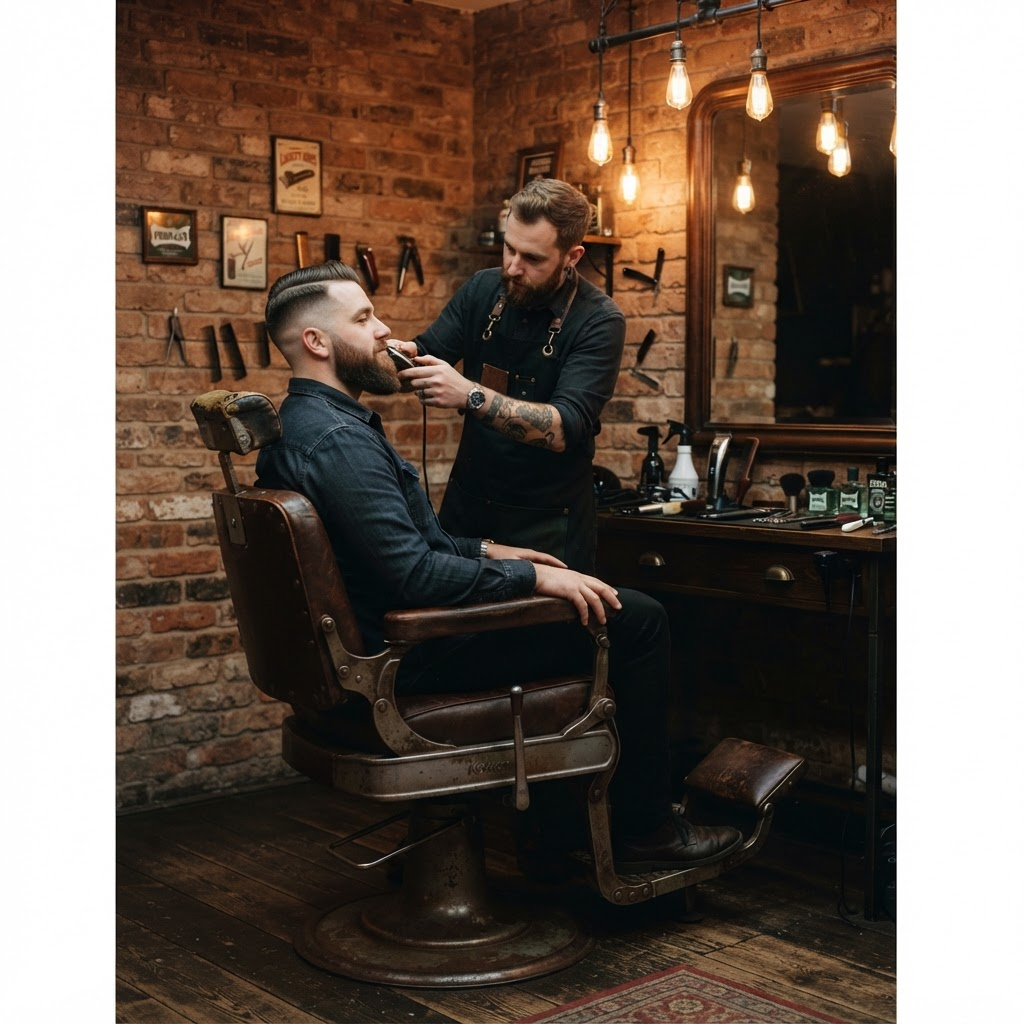
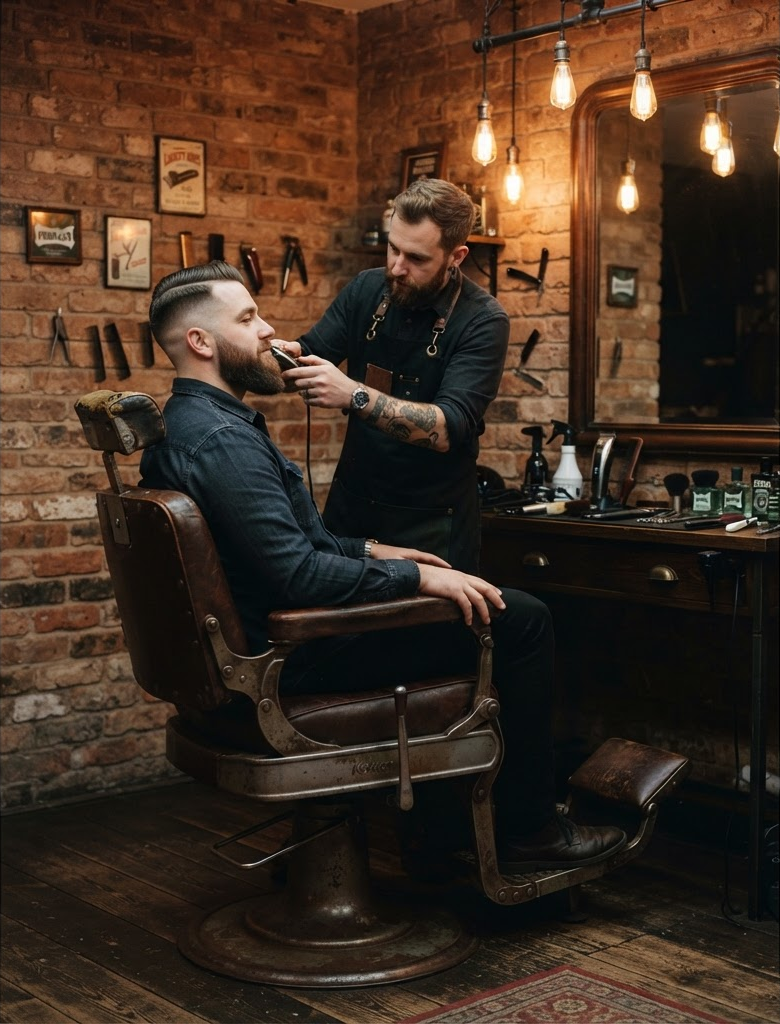
fix(design): barber example without white bars; NFC success sheet without an outline
The barber example photo had white bars baked into both sides (116 and
128 px of 1024). Wherever the crop was wider than the photo's middle three
quarters, the customer page showed two white stripes. Cropped to the photo
itself (780x1024, same path), which also takes it from 1.57 MB to 1.0 MB.

On the NFC success scene there is no button, so the dialog focuses its own
container and the browser drew a focus outline round the whole sheet. The
sheet is not a control; its words already reach screen readers through the
live region.

Claude-Session: https://claude.ai/code/session_015GzPEZRR2vaVnRuGPbWFCQ

diff --git a/frontend/styles/customer-page.css b/frontend/styles/customer-page.css
@@ -792,6 +792,13 @@ html:has(.customer-live) {
   background: var(--rb-canvas);
 }
 
+/* With no button on screen (the success scene), the dialog focuses itself,
+   and the browser drew its focus outline round the whole sheet. The sheet is
+   not a control; its words reach screen readers through the live region. */
+.nfc-sheet:focus {
+  outline: none;
+}
+
 .nfc-sheet__panel {
   display: flex;
   width: 100%;
